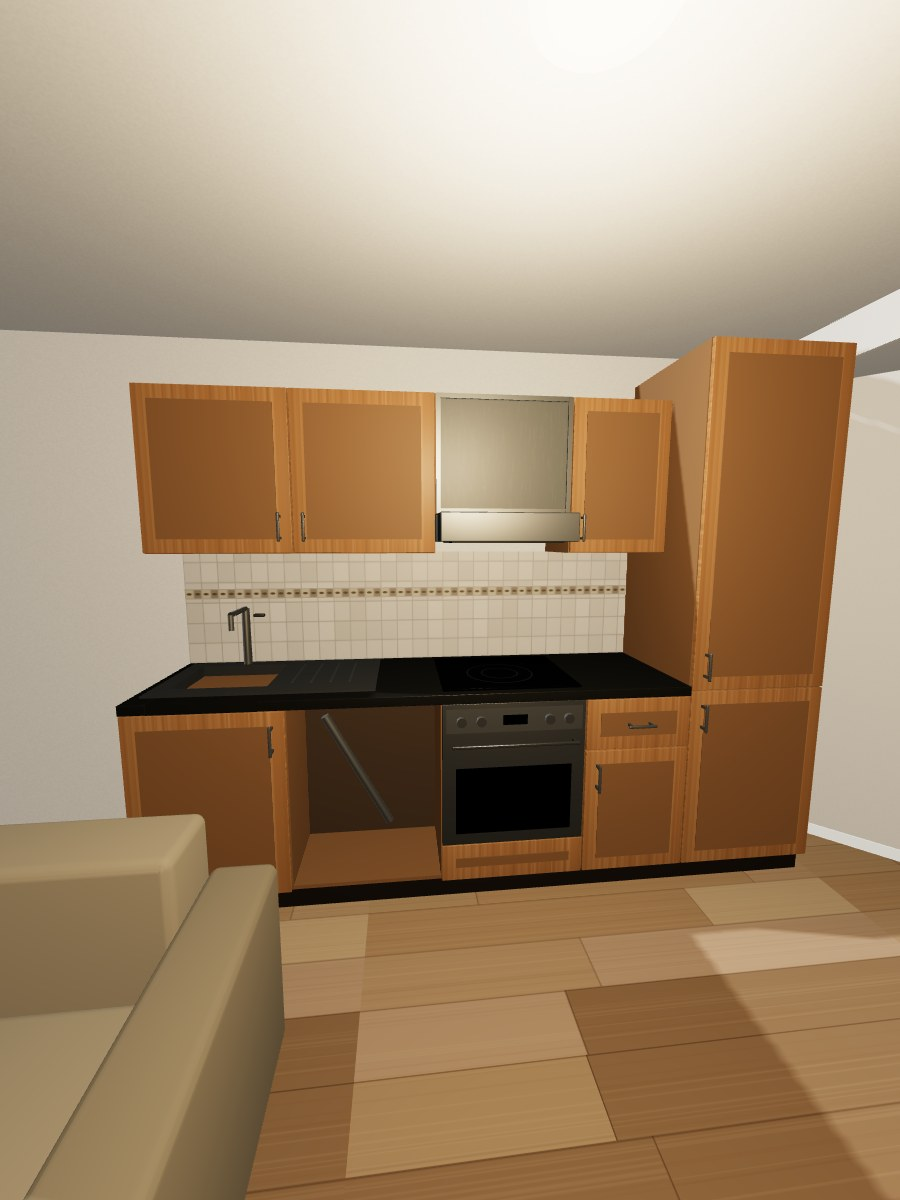
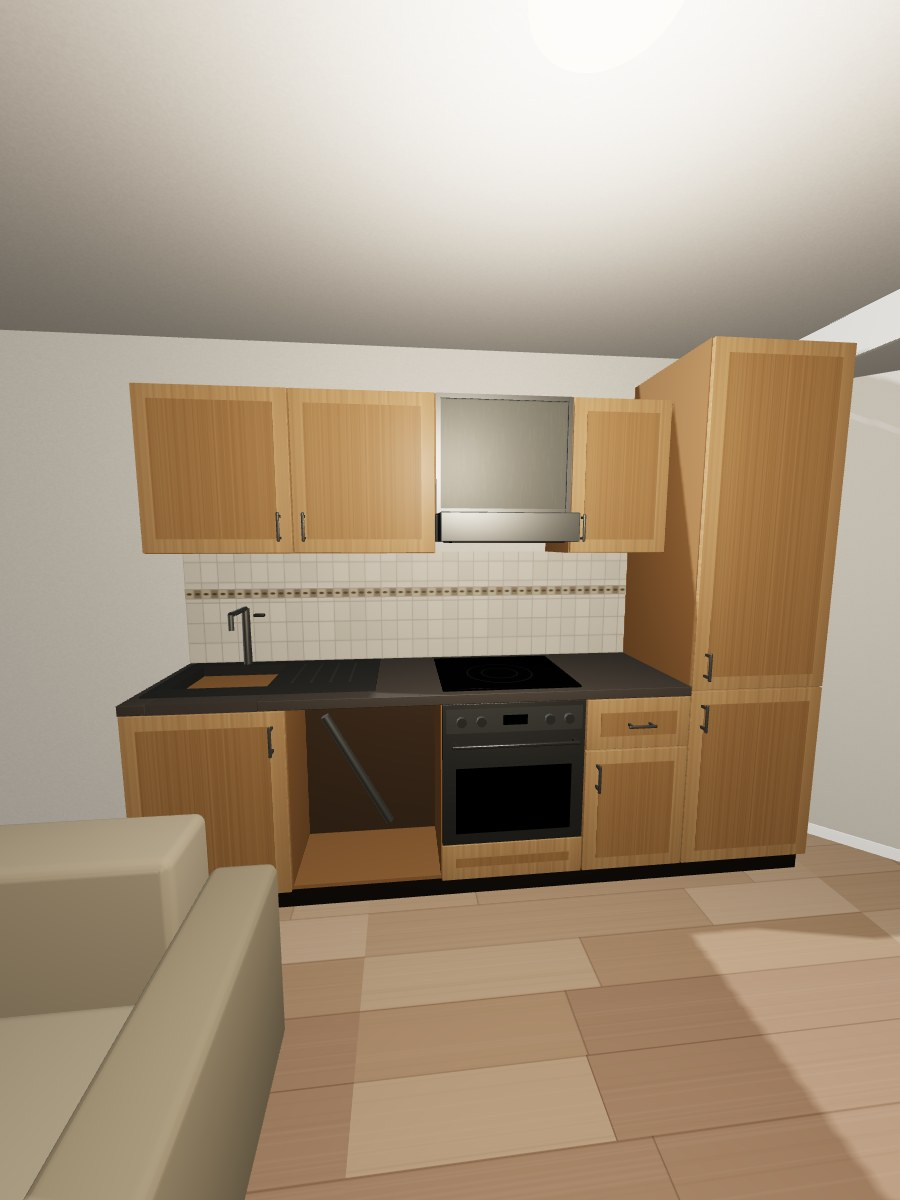
Calibrate materials against the photo pixels
Sample each surface in the reference pages, normalise by the wall tone
to cancel the differing white balance/exposure, and correct the
materials so the rendered result matches: lighter, less saturated oak
floor; yellower beech cabinets; dark warm-grey countertop instead of
black; lighter table and shelves; near-black bed frame; cream tiles.
Neutralise the warm fixture tints and tone the ceiling down slightly.

Claude-Session: https://claude.ai/code/session_014GBF4QgniCUX8Nss7xjxhJ

diff --git a/room-planner/src/room/textures.ts b/room-planner/src/room/textures.ts
@@ -32,7 +32,8 @@ export function oakFloorTexture(sizeUcm: number, sizeVcm: number) {
   const px = 1024;
   const { c, ctx } = canvas(px, px);
   const rnd = mulberry32(7);
-  const tones = ["#C1A47D", "#AF916C", "#AD8C66", "#B8997A", "#927454", "#B39470"];
+  // light oak, low saturation: calibrated against pages 10/11 relative to the wall tone
+  const tones = ["#D6BA9E", "#CDAF92", "#C6A88B", "#BE9F82", "#B3937A", "#D0B497"];
   const plankH = px / 10; // 20 cm planks
   for (let row = 0; row < 10; row++) {
     let u = -rnd() * px * 0.6;
@@ -41,19 +42,19 @@ export function oakFloorTexture(sizeUcm: number, sizeVcm: number) {
       ctx.fillStyle = tones[Math.floor(rnd() * tones.length)];
       ctx.fillRect(u, row * plankH, len, plankH);
       // soft grain streaks
-      ctx.globalAlpha = 0.08;
+      ctx.globalAlpha = 0.06;
       for (let g = 0; g < 14; g++) {
-        ctx.fillStyle = rnd() > 0.5 ? "#7a5c3c" : "#e0c9a6";
+        ctx.fillStyle = rnd() > 0.5 ? "#8a6d50" : "#eadbc4";
         const gy = row * plankH + rnd() * plankH;
         ctx.fillRect(u, gy, len, 1 + rnd() * 2);
       }
       ctx.globalAlpha = 1;
       // seams
-      ctx.fillStyle = "rgba(60,40,25,0.35)";
+      ctx.fillStyle = "rgba(70,50,35,0.28)";
       ctx.fillRect(u, row * plankH, 2, plankH);
       u += len;
     }
-    ctx.fillStyle = "rgba(60,40,25,0.30)";
+    ctx.fillStyle = "rgba(70,50,35,0.24)";
     ctx.fillRect(0, row * plankH, px, 2);
   }
   return finish(c, sizeUcm / 200, sizeVcm / 200);
@@ -64,15 +65,15 @@ export function kitchenTileTexture(sizeUcm: number, sizeVcm: number) {
   const px = 512;
   const { c, ctx } = canvas(px, px);
   const rnd = mulberry32(3);
-  ctx.fillStyle = "#B8B3A9";
+  ctx.fillStyle = "#C4BEB2";
   ctx.fillRect(0, 0, px, px);
   const n = 10;
   const t = px / n;
   const grout = 3;
   for (let i = 0; i < n; i++) {
     for (let j = 0; j < n; j++) {
-      const v = 0.94 + rnd() * 0.08;
-      ctx.fillStyle = `rgb(${Math.round(221 * v)},${Math.round(215 * v)},${Math.round(202 * v)})`;
+      const v = 0.95 + rnd() * 0.06;
+      ctx.fillStyle = `rgb(${Math.round(232 * v)},${Math.round(226 * v)},${Math.round(210 * v)})`;
       ctx.fillRect(i * t + grout / 2, j * t + grout / 2, t - grout, t - grout);
     }
   }
@@ -121,11 +122,12 @@ export function beechTexture() {
   const px = 512;
   const { c, ctx } = canvas(px, px);
   const rnd = mulberry32(5);
-  ctx.fillStyle = "#A97848";
+  // beech: yellow-tan, calibrated against pages 6/7/14
+  ctx.fillStyle = "#C09A6C";
   ctx.fillRect(0, 0, px, px);
-  const tones = ["#93683E", "#B88959", "#C09567", "#A57346", "#B07E4E"];
+  const tones = ["#AE8A5E", "#C9A575", "#D1AF82", "#B69064", "#C49F70"];
   for (let i = 0; i < 260; i++) {
-    ctx.globalAlpha = 0.18 + rnd() * 0.25;
+    ctx.globalAlpha = 0.15 + rnd() * 0.22;
     ctx.fillStyle = tones[Math.floor(rnd() * tones.length)];
     const x = rnd() * px;
     ctx.fillRect(x, 0, 1 + rnd() * 5, px);

diff --git a/room-planner/src/room/materials.tsx b/room-planner/src/room/materials.tsx
@@ -49,7 +49,7 @@ function std(props: THREE.MeshStandardMaterialParameters) {
 export function createMaterials() {
   const floorTex = oakFloorTexture(P.NOOK_X1, P.ROOM_L);
   const wallTex = plasterTexture(PALETTE.wall, 400, 243);
-  const ceilingTex = plasterTexture(PALETTE.ceiling, 400, 624);
+  const ceilingTex = plasterTexture("#E2DFD8", 400, 624);
   const tileTex = kitchenTileTexture(P.KITCHEN_W, P.UPPER_Z0 - P.COUNTER_H);
   const stripTex = tileStripTexture(P.KITCHEN_W);
   const beech = beechTexture();
@@ -74,10 +74,11 @@ export function createMaterials() {
     ceiling: std({ map: ceilingTex, roughness: 0.9, metalness: 0, side: THREE.DoubleSide }),
     baseboard: std({ color: PALETTE.baseboard, roughness: 0.6 }),
     cabinet: std({ map: beech, color: "#ffffff", roughness: 0.45, metalness: 0 }),
-    cabinetCarcass: std({ color: "#8f6a45", roughness: 0.6 }),
+    cabinetField: std({ map: beech, color: "#e6dfd6", roughness: 0.47, metalness: 0 }),
+    cabinetCarcass: std({ color: "#A27A50", roughness: 0.6 }),
     nicheInterior: std({ color: "#5a4a3a", roughness: 0.9 }),
     plinth: std({ color: PALETTE.plinth, roughness: 0.7 }),
-    counter: std({ color: PALETTE.counter, roughness: 0.35, metalness: 0.05 }),
+    counter: std({ color: "#5E5954", roughness: 0.55, metalness: 0.05 }),
     tile: std({ map: tileTex, roughness: 0.35, metalness: 0 }),
     tileStrip: std({ map: stripTex, roughness: 0.4 }),
     steel: std({ color: PALETTE.steel, roughness: 0.23, metalness: 0.85 }),
@@ -89,13 +90,13 @@ export function createMaterials() {
     windowFrame: std({ color: PALETTE.windowFrame, roughness: 0.3, metalness: 0.1 }),
     glass,
     blind: std({ color: PALETTE.blind, roughness: 0.6 }),
-    bedFrame: std({ color: PALETTE.bedFrame, roughness: 0.5, metalness: 0.05 }),
-    bedPanel: std({ color: "#2A211C", roughness: 0.55 }),
-    mattress: std({ color: PALETTE.mattress, roughness: 0.9 }),
-    sofa: std({ color: PALETTE.sofa, roughness: 0.8 }),
-    sofaDark: std({ color: "#948870", roughness: 0.82 }),
-    table: std({ color: PALETTE.table, roughness: 0.5 }),
-    shelf: std({ color: PALETTE.shelf, roughness: 0.6 }),
+    bedFrame: std({ color: "#231C19", roughness: 0.45, metalness: 0.15 }),
+    bedPanel: std({ color: "#3A322C", roughness: 0.6 }),
+    mattress: std({ color: "#E9E5DE", roughness: 0.9 }),
+    sofa: std({ color: "#B7AC95", roughness: 0.8 }),
+    sofaDark: std({ color: "#A69B84", roughness: 0.82 }),
+    table: std({ color: "#C4B59C", roughness: 0.5 }),
+    shelf: std({ color: "#B08F68", roughness: 0.6 }),
     lamp: std({
       color: PALETTE.lamp,
       emissive: "#FFE2B0",

diff --git a/room-planner/src/components/room/Lighting.tsx b/room-planner/src/components/room/Lighting.tsx
@@ -28,8 +28,8 @@ export function Lighting() {
         shadow-camera-near={1}
         shadow-camera-far={30}
       />
-      <hemisphereLight args={["#e3e9f0", "#6f6455", 0.7]} />
-      <ambientLight intensity={0.4} />
+      <hemisphereLight args={["#e3e9f0", "#7a7268", 0.7]} />
+      <ambientLight intensity={0.34} />
 
       {/* white paper pendant in the sleeping half */}
       <mesh position={toWorld(x, y, P.ROOM_H - 1)} material={mats.lampCord} castShadow={false}>
@@ -41,13 +41,13 @@ export function Lighting() {
       <mesh position={toWorld(x, y, centerZ)} material={mats.lamp} castShadow={false}>
         <sphereGeometry args={[diameter / 200, 32, 24]} />
       </mesh>
-      <pointLight position={toWorld(x, y, centerZ)} intensity={11} color="#ffd8a6" decay={2} castShadow={false} />
+      <pointLight position={toWorld(x, y, centerZ)} intensity={8} color="#ffe4c4" decay={2} castShadow={false} />
 
       {/* understated flush fixture toward the kitchen */}
       <mesh position={toWorld(P.KITCHEN_LIGHT.x, P.KITCHEN_LIGHT.y, P.ROOM_H - 2)} material={mats.lamp} castShadow={false}>
         <cylinderGeometry args={[0.11, 0.13, 0.04, 32]} />
       </mesh>
-      <pointLight position={toWorld(P.KITCHEN_LIGHT.x, P.KITCHEN_LIGHT.y, P.ROOM_H - 45)} intensity={4} color="#ffe2b8" decay={2} />
+      <pointLight position={toWorld(P.KITCHEN_LIGHT.x, P.KITCHEN_LIGHT.y, P.ROOM_H - 45)} intensity={4} color="#fff0dc" decay={2} />
     </group>
   );
 }

diff --git a/room-planner/src/components/Scene.tsx b/room-planner/src/components/Scene.tsx
@@ -26,7 +26,7 @@ export function Scene() {
     <Canvas
       shadows
       dpr={[1, 1.75]}
-      gl={{ antialias: true, toneMapping: THREE.ACESFilmicToneMapping, toneMappingExposure: 1.0 }}
+      gl={{ antialias: true, toneMapping: THREE.ACESFilmicToneMapping, toneMappingExposure: 0.95 }}
       style={{ touchAction: "none" }}
     >
       <color attach="background" args={["#c9d4de"]} />

diff --git a/room-planner/src/components/room/Kitchen.tsx b/room-planner/src/components/room/Kitchen.tsx
@@ -77,7 +77,7 @@ function Door({
       <Block
         min={[x0 + f, y - P.FRONT_T - 0.4, z0 + f]}
         size={[x1 - x0 - 2 * f, 0.4, z1 - z0 - 2 * f]}
-        material={mats.cabinetCarcass}
+        material={mats.cabinetField}
         castShadow={false}
       />
     </group>
